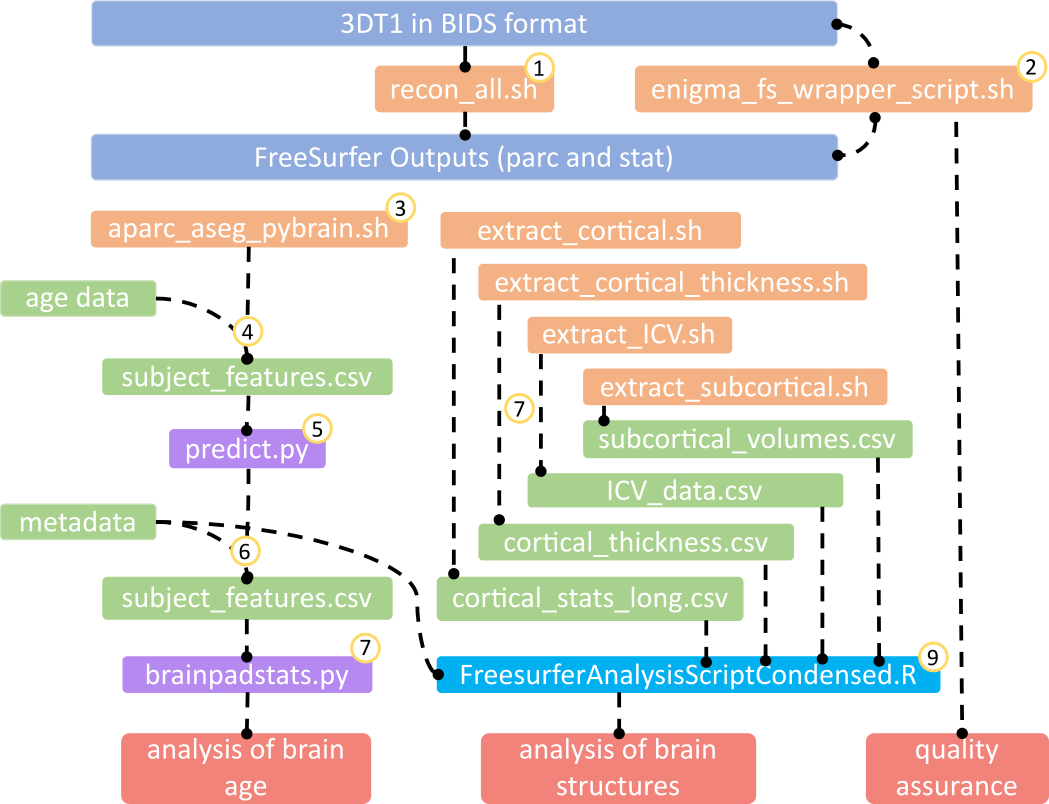
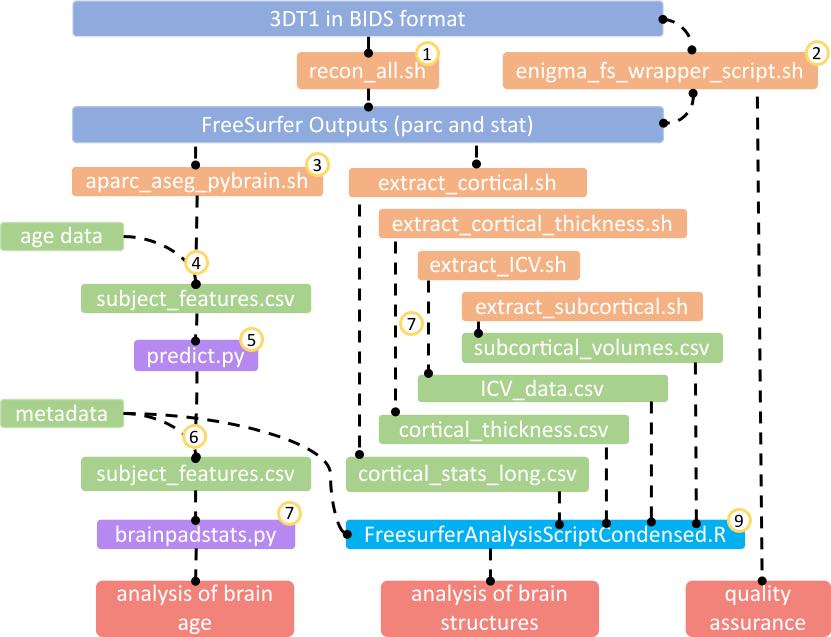
updating flowchart

diff --git a/README.md b/README.md
@@ -41,7 +41,13 @@ Your data should be organized following BIDS conventions:
 
 This repository serves as a centralized location for sharing processing scripts with all participating institutes in the SCI_MAP project. The standardized scripts ensure consistent analysis across different sites and datasets.
 
+
+
+
 ![SCI_MAP Workflow](assets/flowchart.png)
+
+
+
 
 ### Step 1: FreeSurfer Processing (reconall.sh)
 
@@ -733,6 +739,7 @@ subjects=$(ls ${SUBJECTS_DIR} | grep "sub-")
 Run script using `bash extract_subcortical.sh`. This will create a file named `subcortical_volumes.csv` in your derivatives folder. 
 
 **R Analysis**
+### Step 9: Statistical Analysis for Structural Data 
 
 Following compiling all the data necessary for analysis, we can then conduct an R analysis for all data. This will compare the regions using a t-test, and calculate the effect size along with other statistical measures. You will need the following packages listed below, as well as the following files you should have compiled above. 
 
